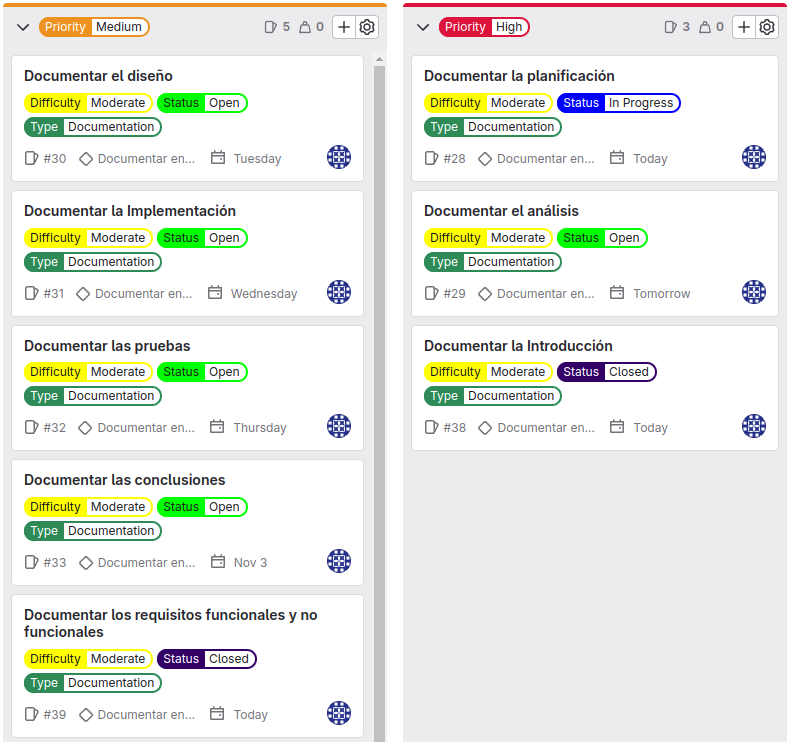
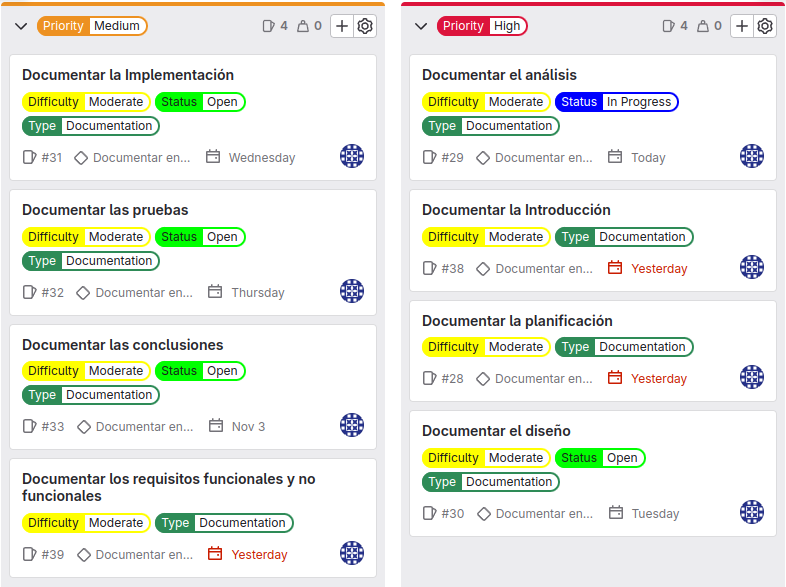
Mejorar reqs y planificacion. Usar subsubsecciones

diff --git a/capitulos/03_Planificacion.tex b/capitulos/03_Planificacion.tex
@@ -1,5 +1,5 @@
 \chapter{Planificación}
-Para gestionar la planificación del proyecto, se ha implementado el método Kanban para organizar y asignar tareas de manera eficiente, utilizando la herramienta Wakatime para registrar y analizar el tiempo invertido en cada actividad. Esta metodología permite un seguimiento preciso de las tareas completadas y del esfuerzo dedicado, asegurando así el cumplimiento de los objetivos semanales en un periodo de seis semanas. La planificación ha resultado fundamental para equilibrar el desarrollo del trabajo de fin de grado junto con las prácticas en la empresa, en las cuales dedico cinco horas diarias de trabajo durante la semana, dejando el fin de semana como el principal período de dedicación al proyecto académico.
+Para gestionar la planificación del proyecto, se ha implementado el método Kanban para organizar y asignar tareas de manera eficiente, utilizando la herramienta Wakatime para registrar y analizar el tiempo invertido en cada actividad. Esta metodología permite un seguimiento preciso de las tareas completadas y del esfuerzo dedicado, asegurando así el cumplimiento de los objetivos semanales en un periodo de seis semanas. La planificación ha resultado fundamental para equilibrar el desarrollo del trabajo de fin de grado junto con las prácticas en la empresa, en las cuales dedico cinco horas diarias de trabajo durante la semana, dejando las tardes de entre semana y el fin de semana como el principal período de dedicación al proyecto académico.
 
 \section{Planificación semanal}
 Dado el tiempo total de un mes y medio para la realización del proyecto, la planificación se ha organizado de la siguiente manera:
@@ -22,162 +22,201 @@ Cada sección semanal incluirá:
 \section{Semana 1: Documentación y prueba del estado del proyecto}
 En la primera semana, se dedicará tiempo a la comprensión profunda del proyecto, evaluando su estado actual y revisando la documentación existente para identificar posibles problemas técnicos y áreas de mejora.
 
+\subsubsection{Tareas de la semana}
 \begin{itemize}
-    \item Tareas de la semana:
-          \begin{itemize}
-              \item Revisión de la estructura del proyecto y código existente.
-              \item Leer la documentación actual del proyecto.
-              \item Identificación de áreas con deuda técnica para su futura resolución.
-              \item Configuración de herramientas de seguimiento (Kanban y Wakatime). \item Revisión de literatura sobre MLOps y buenas prácticas de desarrollo de software.
-          \end{itemize}
-    \item Wakatime semanal: Reporte semanal del tiempo de trabajo y análisis.
-          \begin{figure}[H]
-              \centering
-              \includegraphics[width=\textwidth]{imagenes/wakatime_02-10_08-10.png}
-              \caption{Wakatime 02.10.2024 a 08.10.2024}
-          \end{figure}
-          \begin{itemize}
-              \item Los días anteriores al 5 de Octubre fueron dedicados a realizar las primeras tareas de investigación y documentación. El navegador no está configurado con wakatime por eso no hay seguimiento.
-              \item A partir del 5 de Octubre se empezó a depurar el código para resolver la deuda técnica encontrada.
-          \end{itemize}
-    \item Literatura investigada:
-          \begin{itemize}
-              \item \cite{mlops} MLOps: buenas prácticas y fundamentos.
-              \item \cite{introtodebt} Introducción al concepto de deuda técnica.
-              \item \cite{DORA} Informe DORA sobre MLOps.
-              \item \cite{snapperml_thesis} Thesis de ml-experiment realizada por Antonio Molner.
-              \item \cite{snapperml_documentation} Documentacion oficial del framework snapper-ml.
-          \end{itemize}
+    \item Revisión de la estructura del proyecto y código existente.
+    \item Leer la documentación actual del proyecto.
+    \item Identificación de áreas con deuda técnica para su futura resolución.
+    \item Configuración de herramientas de seguimiento (Kanban y Wakatime). \item Revisión de literatura sobre MLOps y buenas prácticas de desarrollo de software.
 \end{itemize}
+
+\subsubsection{Wakatime semanal}
+Reporte semanal del tiempo de trabajo y análisis.
+\begin{figure}[h]
+    \centering
+    \includegraphics[width=\textwidth]{imagenes/wakatime_02-10_08-10.png}
+    \caption{Wakatime 02.10.2024 a 08.10.2024}
+\end{figure}
+\begin{itemize}
+    \item Los días anteriores al 5 de Octubre fueron dedicados a realizar las primeras tareas de investigación y documentación. El navegador no está configurado con wakatime por eso no hay seguimiento.
+    \item A partir del 5 de Octubre se empezó a depurar el código para resolver la deuda técnica encontrada.
+\end{itemize}
+
+\subsubsection{Literatura investigada}
+\begin{itemize}
+    \item \cite{mlops} MLOps: buenas prácticas y fundamentos.
+    \item \cite{introtodebt} Introducción al concepto de deuda técnica.
+    \item \cite{DORA} Informe DORA sobre MLOps.
+    \item \cite{snapperml_thesis} Thesis de ml-experiment realizada por Antonio Molner.
+    \item \cite{snapperml_documentation} Documentacion oficial del framework snapper-ml.
+\end{itemize}
+
 \section{Semana 2: Resolución de deuda técnica}
 Durante la segunda semana, el enfoque será identificar y corregir la deuda técnica en el proyecto, aplicando buenas prácticas de programación para mejorar la calidad y mantenibilidad del código.
+
+\subsubsection{Tareas de la semana}
 \begin{itemize}
-    \item Tareas de la semana:
-          \begin{itemize}
-              \item Refactorización de módulos con código duplicado o complejo.
-              \item Migración y actualización de dependencias.
-              \item Eliminar código obsoleto y/o no utilizado.
-              \item Optimización de funciones para mejorar el rendimiento.
-              \item Documentación de los cambios realizados y su justificación.
-          \end{itemize}
-    \item Kanban semanal: tablero Kanban de la semana.
-          \begin{figure}[H]
-              \centering
-              \includegraphics[width=\textwidth]{imagenes/kanban_resolver_deuda_tecnica.png}
-              \caption{Milestone - Resolver la deuda técnica}
-          \end{figure}
-    \item Wakatime semanal: Reporte semanal del tiempo de trabajo y análisis.
-          \begin{figure}[H]
-              \centering
-              \includegraphics[width=\textwidth]{imagenes/wakatime_07-10_20-10.png}
-              \caption{Wakatime 07.10.2024 a 20.10.2024}
-          \end{figure}
-          \begin{itemize}
-              \item El tiempo de resolución de la deuda técnica va desde el 6 hasta el 13 de Octubre.
-              \item Tiempo total dedicado de 23 horas y 35 minutos.
-          \end{itemize}
-    \item Literatura y recursos utilizados:
-          \begin{itemize}
-              \item \cite{cunningham} Artículo de Ward Cunningham sobre deuda técnica.
-              \item \cite{introtodebt} Conceptos y gestión de deuda técnica.
-              \item \cite{stackoverflow_python_debug} Post de stackoverflow sobre como hacer debug en VSC.
-              \item \cite{pydantic} Dependencia de validación de configuración de los experimentos.
-              \item \cite{mlops_principles} Principios fundamentales de MLOPs.
-              \item \cite{knockknock} Dependencia de notificaciones.
-              \item \cite{optuna_samplers} Dependencia de optimización de Hiperparámetros.
-          \end{itemize}
+    \item Refactorización de módulos con código duplicado o complejo.
+    \item Migración y actualización de dependencias.
+    \item Eliminar código obsoleto y/o no utilizado.
+    \item Optimización de funciones para mejorar el rendimiento.
+    \item Documentación de los cambios realizados y su justificación.
+\end{itemize}
+
+\subsubsection{Kanban semanal}
+Lista de tareas por tipo. Puede ser Bug, Enhancement o Feature. Ver figura \ref{fig:kanban_deuda}
+\begin{figure}[h]
+    \centering
+    \includegraphics[width=\textwidth]{imagenes/kanban_resolver_deuda_tecnica.png}
+    \caption{Milestone - Resolver la deuda técnica}
+    \label{fig:kanban_deuda}
+\end{figure}
+
+\subsubsection{Wakatime semanal}
+Reporte semanal del tiempo de trabajo y análisis. Ver figura \ref{fig:wakatime_07_10_2024}
+\begin{figure}[H]
+    \centering
+    \includegraphics[width=\textwidth]{imagenes/wakatime_07-10_20-10.png}
+    \caption{Wakatime 07.10.2024 a 20.10.2024}
+    \label{fig:wakatime_07_10_2024}
+\end{figure}
+\begin{itemize}
+    \item El tiempo de resolución de la deuda técnica va desde el 6 hasta el 13 de Octubre.
+    \item Tiempo total dedicado de 23 horas y 35 minutos.
+\end{itemize}
+
+\subsubsection{Commits}
+Para un mejor seguimiento y organización se ha realizado un \say{pull request} al repositorio principal de SnapperML.
+\begin{figure}[H]
+    \centering
+    \includegraphics[width=\textwidth]{imagenes/github_pr_deuda.png}
+    \caption{Pull request: Resolución de la deuda técnica}
+    \label{fig:github_pr_deuda}
+\end{figure}
+
+\subsubsection{Literatura y recursos utilizados}
+\begin{itemize}
+    \item \cite{cunningham} Artículo de Ward Cunningham sobre deuda técnica.
+    \item \cite{introtodebt} Conceptos y gestión de deuda técnica.
+    \item \cite{stackoverflow_python_debug} Post de stackoverflow sobre como hacer debug en VSC.
+    \item \cite{pydantic} Dependencia de validación de configuración de los experimentos.
+    \item \cite{mlops_principles} Principios fundamentales de MLOPs.
+    \item \cite{knockknock} Dependencia de notificaciones.
+    \item \cite{optuna_samplers} Dependencia de optimización de Hiperparámetros.
 \end{itemize}
 
 \section{Semana 3: Desarrollo de la interfaz de usuario}
 En la tercera semana, el objetivo será desarrollar una interfaz de usuario intuitiva para el sistema, basada en las prácticas de usabilidad y accesibilidad.
 
+\subsubsection{Tareas de la semana}
 \begin{itemize}
-    \item Tareas de la semana:
-          \begin{itemize}
-              \item Diseño de los elementos de la interfaz (formularios, botones, visualización de logs).
-              \item Implementación de la interfaz utilizando React y Bootstrap.
-              \item Implementación de la interfaz web interactiva.
-              \item Documentación de la estructura y funcionalidades de la interfaz.
-          \end{itemize}
-    \item Kanban semanal: tablero Kanban de la semana.
-          \begin{figure}[H]
-              \centering
-              \includegraphics[width=\textwidth]{imagenes/kanban_desarrollar_la_interfaz_web.png}
-              \caption{Milestone - Desarrollar la Interfaz Web}
-          \end{figure}
-    \item Wakatime semanal: Reporte semanal del tiempo de trabajo y análisis.
-          \begin{figure}[H]
-              \centering
-              \includegraphics[width=\textwidth]{imagenes/wakatime_14-10_20-10.png}
-              \caption{Wakatime 14.10.2024 a 20.10.2024}
-          \end{figure}
-          \begin{itemize}
-              \item Tiempo record de 9 horas y 30 minutos el Domingo 20 de Octubre con aumento del 169\% de la productividad.
-              \item En total el fin de semana se dedicaron 16 horas y 10 minutos.
-          \end{itemize}
-    \item Literatura y recursos utilizados:
-          \begin{itemize}
-              \item \cite{reactdocs} Documentación de React.
-              \item \cite{bootstrap} Documentación de Bootstrap.
-              \item \cite{vite} ¿Por qué elegir vite?
-              \item \cite{typescript} Handbook de typescript.
-              \item \cite{cors} Cross-Origin Resource Sharing (CORS)
-              \item \cite{flask} Pagina oficial de Flask (API)
-          \end{itemize}
+    \item Diseño de los elementos de la interfaz (formularios, botones, visualización de logs).
+    \item Implementación de la interfaz utilizando React y Bootstrap.
+    \item Implementación de la interfaz web interactiva.
+    \item Documentación de la estructura y funcionalidades de la interfaz.
 \end{itemize}
+
+\subsubsection{Kanban semanal}
+Lista de tareas por tipo. Puede ser Bug, Enhancement o Feature. Ver figura \ref{fig:kanban_desarrollar_la_interfaz_web}
+
+\subsubsection{Wakatime semanal}
+Reporte semanal del tiempo de trabajo y análisis.
+\begin{figure}[H]
+    \centering
+    \includegraphics[width=\textwidth]{imagenes/wakatime_14-10_20-10.png}
+    \caption{Wakatime 14.10.2024 a 20.10.2024}
+\end{figure}
+\begin{itemize}
+    \item Tiempo record de 9 horas y 30 minutos el Domingo 20 de Octubre con aumento del 169\% de la productividad.
+    \item En total el fin de semana se dedicaron 16 horas y 10 minutos.
+\end{itemize}
+\begin{figure}[h]
+    \centering
+    \includegraphics[width=\textwidth]{imagenes/kanban_desarrollar_la_interfaz_web.png}
+    \caption{Milestone - Desarrollar la Interfaz Web}
+    \label{fig:kanban_desarrollar_la_interfaz_web}
+\end{figure}
+
+\subsubsection{Commits}
+Para un mejor seguimiento y organización se ha realizado un \say{pull request} al repositorio principal de SnapperML. Ver figura \ref{fig:github_pr_ui}.
+
+\subsubsection{Literatura y recursos utilizados}
+\begin{itemize}
+    \item \cite{reactdocs} Documentación de React.
+    \item \cite{bootstrap} Documentación de Bootstrap.
+    \item \cite{vite} ¿Por qué elegir vite?
+    \item \cite{typescript} Handbook de typescript.
+    \item \cite{cors} Cross-Origin Resource Sharing (CORS)
+    \item \cite{flask} Pagina oficial de Flask (API)
+\end{itemize}
+
+% Figura de subsubsection commits
+\begin{figure}[h]
+    \centering
+    \includegraphics[width=\textwidth]{imagenes/github_pr_ui.png}
+    \caption{Pull request: SnapperML UI}
+    \label{fig:github_pr_ui}
+\end{figure}
 
 \section{Semana 4 y 5: Redacción de la memoria}
 En la cuarta y quinta semana, el objetivo principal será avanzar en la memoria del proyecto, documentando todos los aspectos técnicos y funcionales, así como el proceso de desarrollo.
 
+\subsubsection{Tareas de la semana}
 \begin{itemize}
-    \item Tareas de la semana:
-          \begin{itemize}
-              \item Redacción de la sección de introducción y objetivos del proyecto.
-              \item Documentación de los requisitos y la especificación del sistema.
-              \item Descripción detallada de las soluciones aplicadas para resolver la deuda técnica.
-              \item Redacción de la planificación semanal y metodología.
-              \item Redacción de la implementación y conclusiones.
-          \end{itemize}
-    \item Kanban semanal: tablero Kanban de la semana.
-          \begin{figure}[H]
-              \centering
-              \includegraphics[width=\textwidth]{imagenes/kanban_documentar_la_memoria.png}
-              \caption{Milestone - Documentar la memoria}
-          \end{figure}
-    \item Wakatime semanal: Reporte semanal del tiempo de trabajo y análisis. Pendiente.
-    \item Literatura utilizada:
-          \begin{itemize}
-              \item Documentación interna del proyecto.
-              \item Cualquier fuente citada en el TFG, para una referencia precisa en el documento.
-          \end{itemize}
+    \item Redacción de la sección de introducción y objetivos del proyecto.
+    \item Documentación de los requisitos y la especificación del sistema.
+    \item Descripción detallada de las soluciones aplicadas para resolver la deuda técnica.
+    \item Redacción de la planificación semanal y metodología.
+    \item Redacción de la implementación y conclusiones.
 \end{itemize}
+
+\subsubsection{Kanban semanal (por prioridad)}
+\begin{figure}[h]
+    \centering
+    \includegraphics[width=\textwidth]{imagenes/kanban_documentar_la_memoria.png}
+    \caption{Milestone - Documentar la memoria}
+\end{figure}
+
+\subsubsection{Wakatime semanal}
+Reporte semanal del tiempo de trabajo y análisis. Pendiente.
+
+\subsubsection{Literatura utilizada}
+\begin{itemize}
+    \item Documentación interna del proyecto.
+    \item Cualquier fuente citada en el TFG, para una referencia precisa en el documento.
+\end{itemize}
+
 
 \section{Semana 6: Funcionalidades adicionales y pruebas}
 En la quinta semana se añadirán funcionalidades adicionales y se implementarán pruebas para mejorar la calidad y estabilidad del sistema, además de completar documentación técnica.
 
 Por último se centrará en resolver problemas de seguridad y accesibilidad en el sistema, además de completar la documentación final del proyecto.
 
+\subsubsection{Tareas de la semana}
 \begin{itemize}
-    \item Tareas de la semana:
-          \begin{itemize}
-              \item Implementación de funcionalidades adicionales solicitadas por el tutor.
-              \item Creación de pruebas unitarias y de integración para el nuevo código.
-              \item Actualización de la documentación con las nuevas funcionalidades y pruebas.
-              \item Identificación y corrección de posibles vulnerabilidades de seguridad.
-              \item Validación de la accesibilidad de la interfaz para usuarios con diferentes necesidades.
-              \item Revisión final de toda la documentación del proyecto.
-          \end{itemize}
-    \item Kanban semanal: tablero Kanban de la semana.
-          \begin{figure}[H]
-              \centering
-              \includegraphics[width=\textwidth]{imagenes/kanban_ampliar_snapper.png}
-              \caption{Milestone - Mejorar snapperML}
-          \end{figure}
-    \item Wakatime semanal: Reporte semanal del tiempo de trabajo y análisis. Pendiente
-    \item Literatura utilizada:
-          \begin{itemize}
-              \item Referencias adicionales sobre MLOps y diseño de pruebas en proyectos de software.
-              \item \cite{security} Guías sobre seguridad en desarrollo web.
-              \item \cite{accesibilidad_espania} Guías de accesibilidad y usabilidad para interfaces web.
-          \end{itemize}
+    \item Implementación de funcionalidades adicionales solicitadas por el tutor.
+    \item Creación de pruebas unitarias y de integración para el nuevo código.
+    \item Actualización de la documentación con las nuevas funcionalidades y pruebas.
+    \item Identificación y corrección de posibles vulnerabilidades de seguridad.
+    \item Validación de la accesibilidad de la interfaz para usuarios con diferentes necesidades.
+    \item Revisión final de toda la documentación del proyecto.
 \end{itemize}
+\subsubsection{Kanban semanal}
+Lista de tareas por tipo. Puede ser Enhancement o Feature. Ver figura \ref{fig:kanban_mejorar_snapper}
+
+\subsubsection{Wakatime semanal}
+Reporte semanal del tiempo de trabajo y análisis. Pendiente.
+
+\subsubsection{Literatura utilizada}
+\begin{itemize}
+    \item Referencias adicionales sobre MLOps y diseño de pruebas en proyectos de software.
+    \item \cite{security} Guías sobre seguridad en desarrollo web.
+    \item \cite{accesibilidad_espania} Guías de accesibilidad y usabilidad para interfaces web.
+\end{itemize}
+
+\begin{figure}[H]
+    \centering
+    \includegraphics[width=\textwidth]{imagenes/kanban_ampliar_snapper.png}
+    \caption{Milestone - Mejorar snapperML}
+    \label{fig:kanban_mejorar_snapper}
+\end{figure}

diff --git a/capitulos/02_EspecificacionRequisitos.tex b/capitulos/02_EspecificacionRequisitos.tex
@@ -1,4 +1,4 @@
-\chapter{Especificacion de Requisitos}
+\chapter{Especificación de Requisitos}
 
 \section{Descripción general del sistema}
 El sistema consistirá en un entorno completo que permita a cualquier tipo de usuario reproducir sus experimentos de Machine Learning de forma simple e intuitiva, pudiendo adaptar la información mostrada a las necesidades del usuario. Este entorno permitirá la gestión eficiente de configuraciones y archivos, así como la ejecución de experimentos en un contexto MLOps, alineado con buenas prácticas para minimizar la acumulación de deuda técnica y asegurar un ciclo de vida continuo y escalable.

diff --git a/proyecto.tex b/proyecto.tex
@@ -5,9 +5,7 @@
 \usepackage[spanish]{babel}
 \usepackage{imakeidx}
 \usepackage{indentfirst}
-
-%\usepackage{titlesec}
-%\usepackage{pailatino}
+\usepackage{dirtytalk}
 
 \decimalpoint
 \usepackage{dcolumn}
@@ -137,13 +135,12 @@ Telecomunicación\xspace}
 \setlength{\parindent}{10pt}
 
 \input{capitulos/01_Introduccion}
-
 %
 \input{capitulos/02_EspecificacionRequisitos}
 %
 \input{capitulos/03_Planificacion}
 %
-%\input{capitulos/04_Analisis}
+\input{capitulos/04_Analisis}
 %
 %\input{capitulos/05_Diseno}
 %
